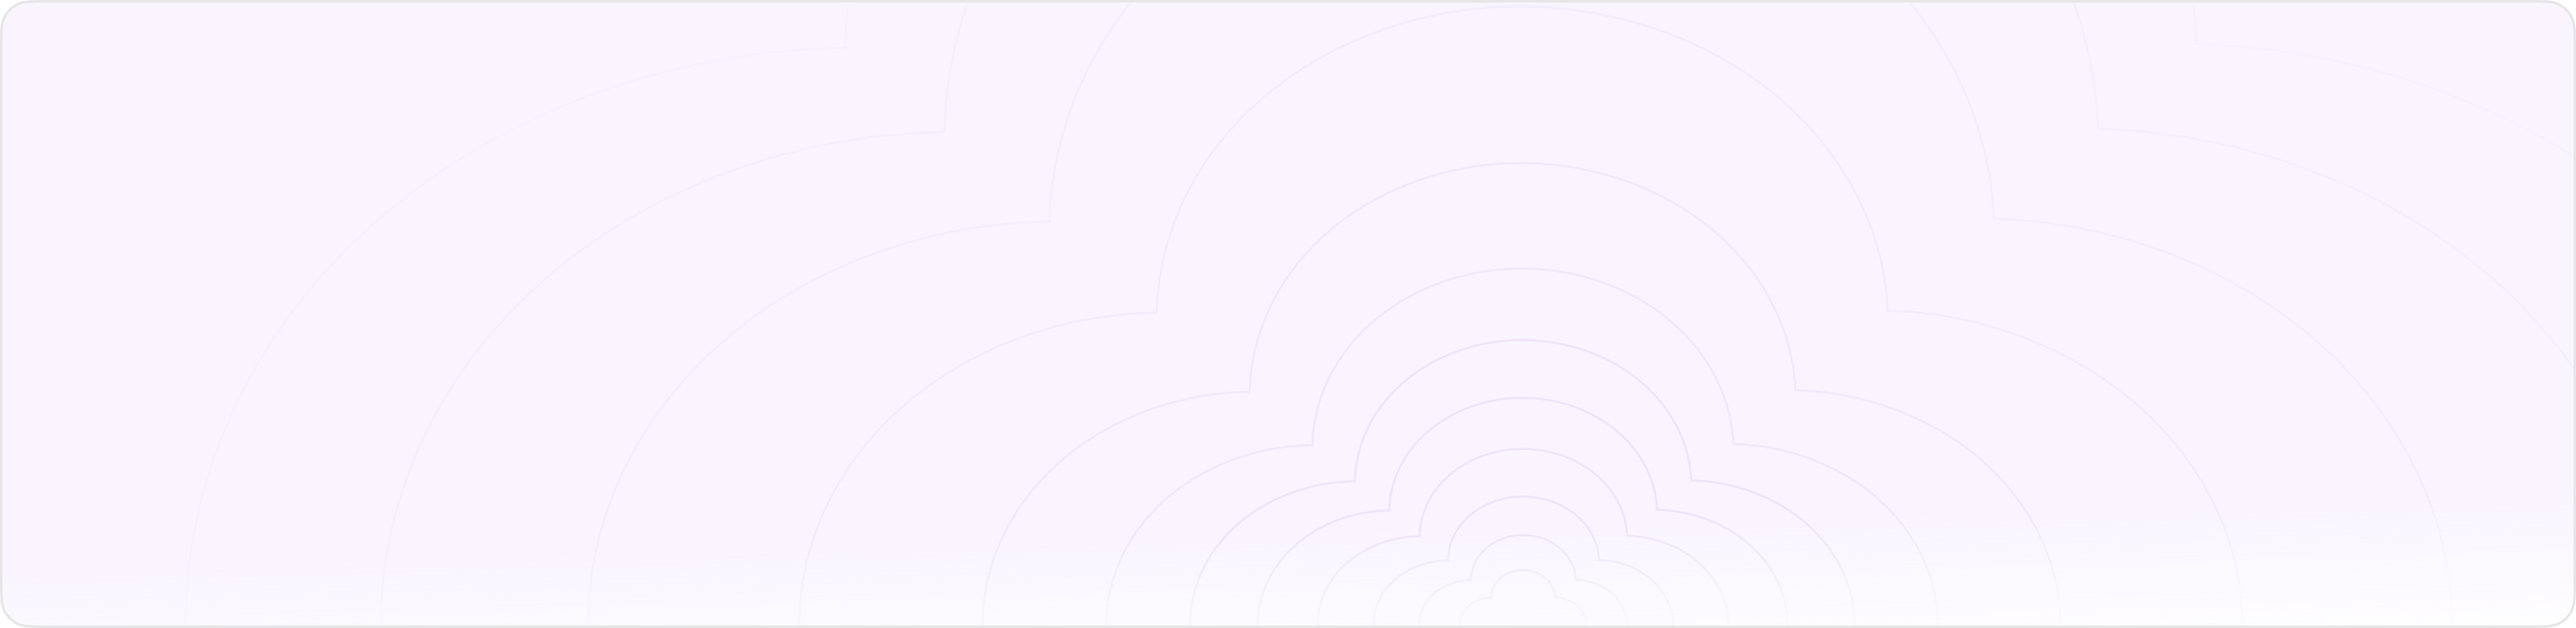
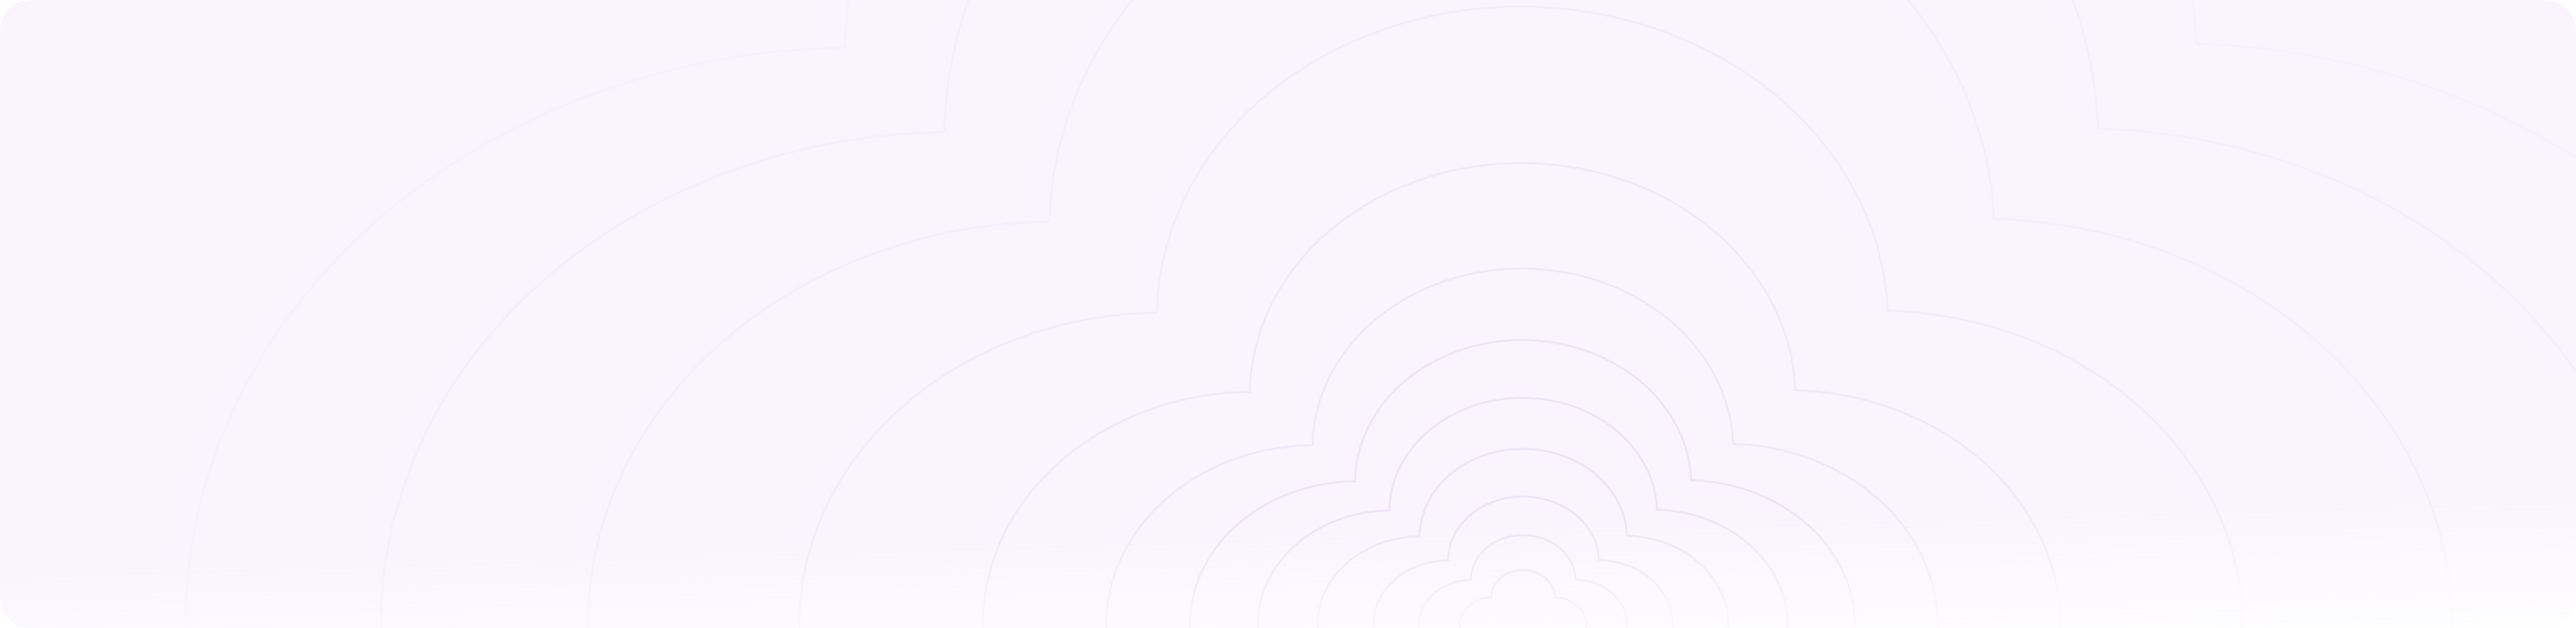
making sub texts 12px in dashboard

Changed region(s): [[0.0, 0.9688, 1.0, 1.0], [0.0, 0.0, 1.0, 0.0312]]

diff --git a/app/components/internal/Dashboard/Prospect.tsx b/app/components/internal/Dashboard/Prospect.tsx
@@ -11,10 +11,10 @@ const Prospect = ({theme} : Props) => {
     return (
         <div className="bg-[var(--background-secondary-color)] border border-[var(--border-color)] flex flex-col items-center justify-start w-full min-h-[271px] rounded-xl">
             <div className={`flex flex-col items-center justify-center p-4`}>
-                <div className="text-[var(--primary-color)] font-semibold text-sm">
+                <div className="text-[var(--primary-color)] font-semibold text-xs">
                     Personalized Prospecting
                 </div>
-                <div className="text-[var(--bold-border-color)] text-[10px] mt-2 text-center">
+                <div className="text-[var(--bold-border-color)] text-xs mt-2 text-center">
                     Say goodbye to generic outreach. Our platform utilizes cutting-edge AI to automate prospecting.
                 </div>
                 <button className='text-white text-[10px] rounded-lg bg-gradient-to-r from-[#8C67E2] via-[#946DF0] via-[#E87D83] via-[#F2AB7F] to-[#FFC899] px-3 py-2 mt-3'>Coming Soon</button>

diff --git a/app/components/internal/Dashboard/Promote/PromoteOne.tsx b/app/components/internal/Dashboard/Promote/PromoteOne.tsx
@@ -43,7 +43,7 @@ const PromoteOne = ({ values, theme }: Props) => {
                     <span className='text-xs text-[var(--primary-color)] font-[var(--font-weight-semibold)]'>Smart Promote</span>
                     {!isEmpty &&  <div><ArrowRight color='#6750a4' width='12px' height='12px' /></div>}
                 </div>
-                <div className="text-[var(--bold-border-color)] text-[10px] mt-2 text-center">
+                <div className="text-[var(--bold-border-color)] text-xs mt-2 text-center">
                     {isEmpty ? "Promote your events through multiple touchpoints, attracting a wider audience" : "Keep track of your widgets !"}
                 </div>
                 {isEmpty && <Button onClick={() => handleRouting("button")} className="mt-3 z-10 btn-default flex items-center">Promote<MoveRight width={12} /></Button>}

diff --git a/app/components/internal/Dashboard/Trends/Trends.tsx b/app/components/internal/Dashboard/Trends/Trends.tsx
@@ -23,7 +23,7 @@ const Trends = ({ container }: Props) => {
                     <div><ArrowRight color='#6750a4' width='12px' height='12px' /></div>
                 </div>
             </div>
-            <div className='text-[10px] text-[var(--bold-border-color)] mt-3'>Explore event trends to tailor your experience to what’s popular and relevant.</div>
+            <div className='text-xs text-[var(--bold-border-color)] mt-3'>Explore event trends to tailor your experience to what’s popular and relevant.</div>
             <div className={`w-full h-full ${container === "small" ? "mt-10" : "mt-2"}`}><BarChartComponent /></div>
 
         </div>
